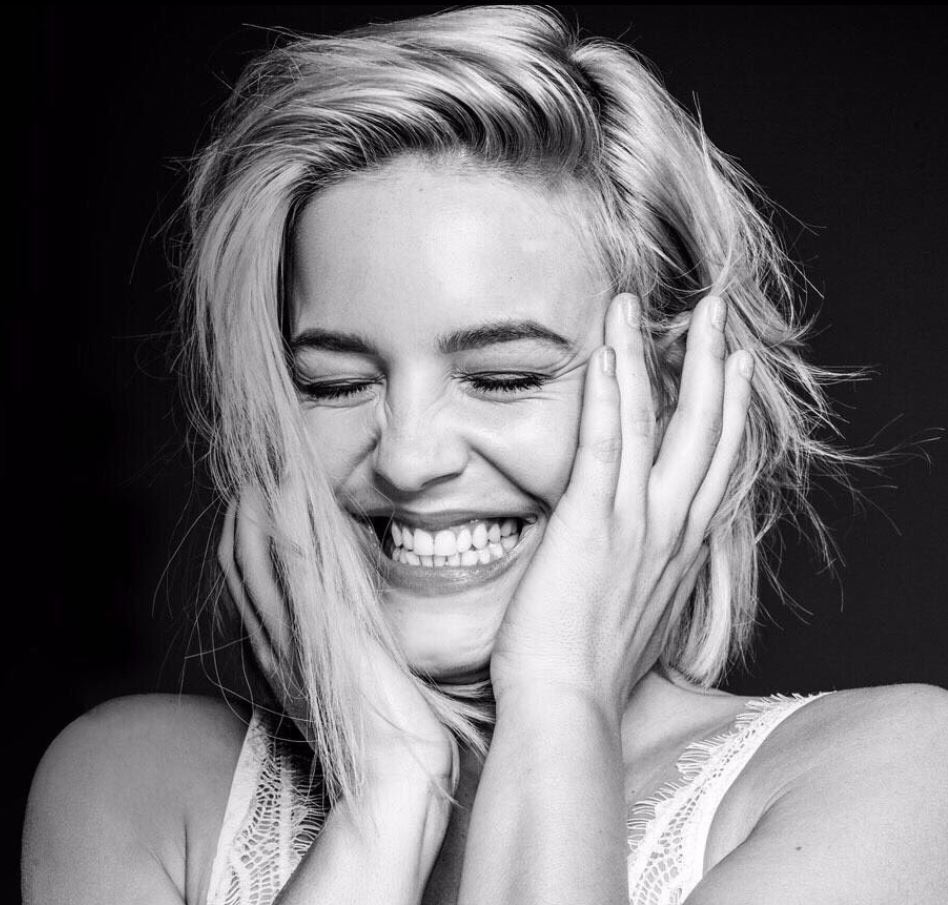
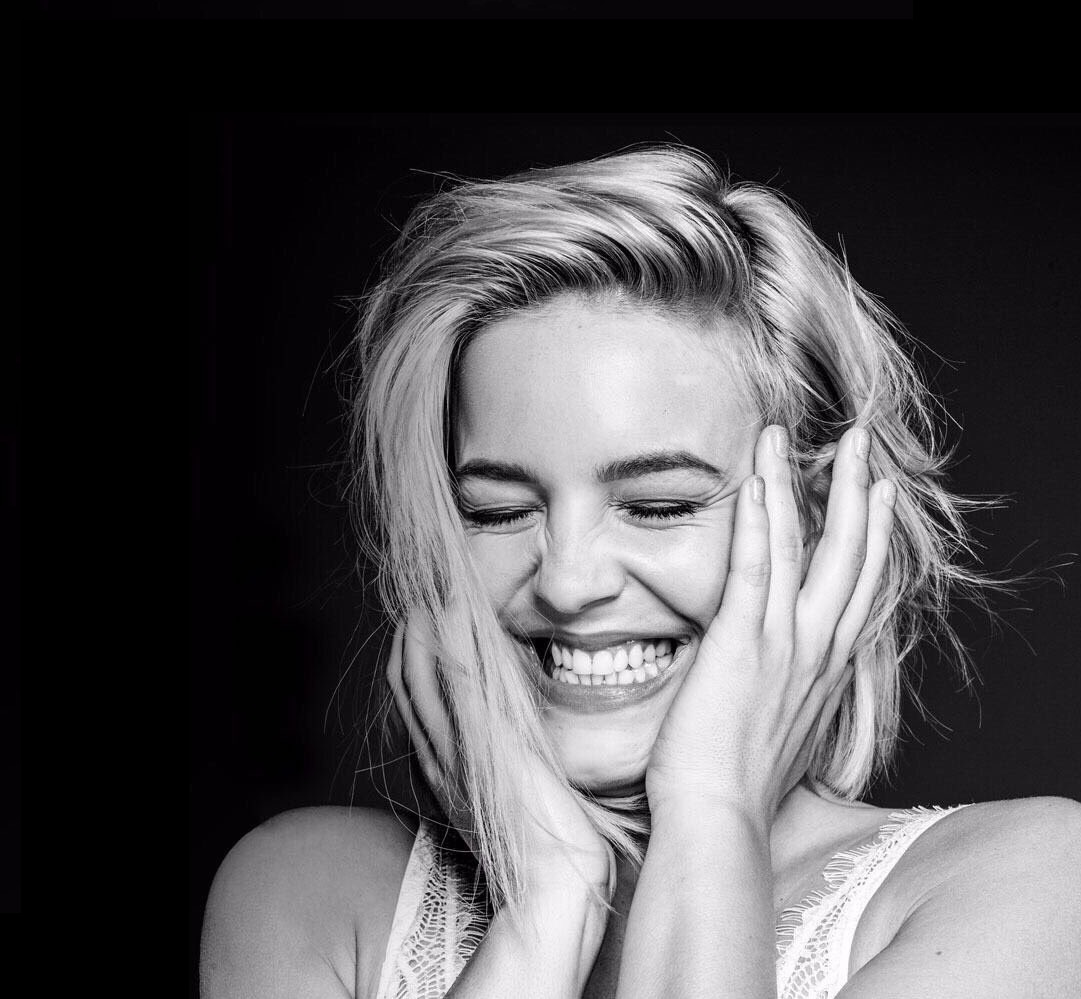
mobile

diff --git a/css/MediaQuerycss.css b/css/MediaQuerycss.css
@@ -10,27 +10,41 @@
 	}
 	.MobileResponsive
 {color:white;}
+	.MainMobileImage
+	{
+		display:none;
+	}
 }
 @media only screen and (Max-width: 600px)
 {
+	.imageContainer{
+		background-color: black;
+	}
 	.MainMobileImage
 	{ 	
-		position:static;
+	
+		position: absolute;
 		background-image:url(file:///C:/Users/madin/Desktop/git/webauth/assests/AnneMarieMobile.JPG);
-		width:auto;
-		height:auto;
+		margin-top:20%;
+		width:100%;
+		height:85%;
 	}
 	.MobileResponsive h2
-{ display:flex;
+{ background-color: black;
+	position: relative;
+	display:flex;
 	color:deeppink;
 	font-size:50px;
 	margin-top:0%;
+	width:105%;
 	padding-left:20%;
 	text-align:center;
 	font-family: 'Gloria Hallelujah', cursive;
 	}
 	.MobileResponsive nav
-	{font-family: 'Gloria Hallelujah', cursive;
+	{z-index: 3;
+		position:absolute;
+		font-family: 'Gloria Hallelujah', cursive;
 		float:left;
 		display:block;
 		width:25%;

diff --git a/Tour.html b/Tour.html
@@ -6,9 +6,8 @@
 <link href="css/stylesheet.css" rel="stylesheet" type="text/css">
 <link rel = "home" href="AnneMarie.html">
  <link rel="stylesheet" href="https://cdnjs.cloudflare.com/ajax/libs/font-awesome/4.7.0/css/font-awesome.min.css">
-  <script async defer src="https://maps.googleapis.com/maps/api/js?key=AIzaSyC4y6oRYnaT9XghJPs7-zVk4lf0Idbnh8U&callback=initMap"
-  type="text/javascript"></script>
-  <link href="https://fonts.googleapis.com/css?family=Gloria+Hallelujah|Nothing+You+Could+Do" rel="stylesheet">
+  <script async defer src="https://maps.googleapis.com/maps/api/js?key=AIzaSyC4y6oRYnaT9XghJPs7-zVk4lf0Idbnh8U&callback=initMap"></script>
+  <link href="https://fonts.googleapis.com/css?family=Gloria+Hallelujah" rel="stylesheet">
   <link href="css/MediaQuerycss.css" rel="stylesheet">
 
 </head>

diff --git a/index.html b/index.html
@@ -27,9 +27,9 @@
 </head>
 
 <body>
-
+<div class="imageContainer">
 	<img src="assests/AnneMarieMobile.JPG" alt="Anne Marie" class=MainMobileImage>
-
+</div>
 <header> 
 
 	<div id="socail">
@@ -102,6 +102,6 @@
 		</div>
 		</footer>
 </main>
-	</div>	
+		
 </body>
 </html>
